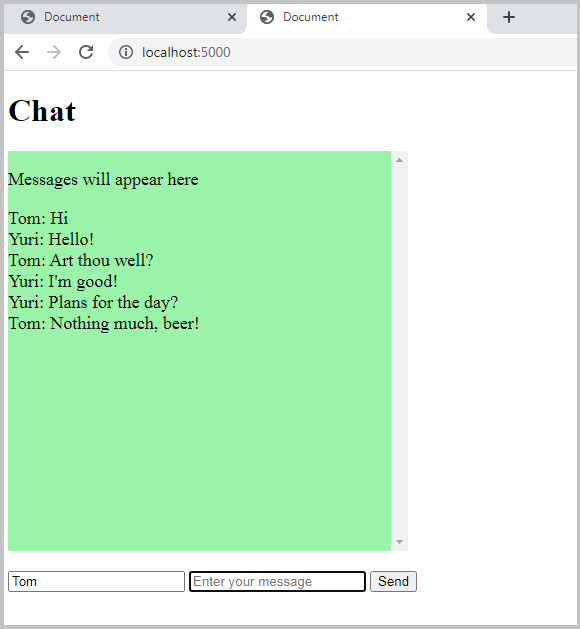
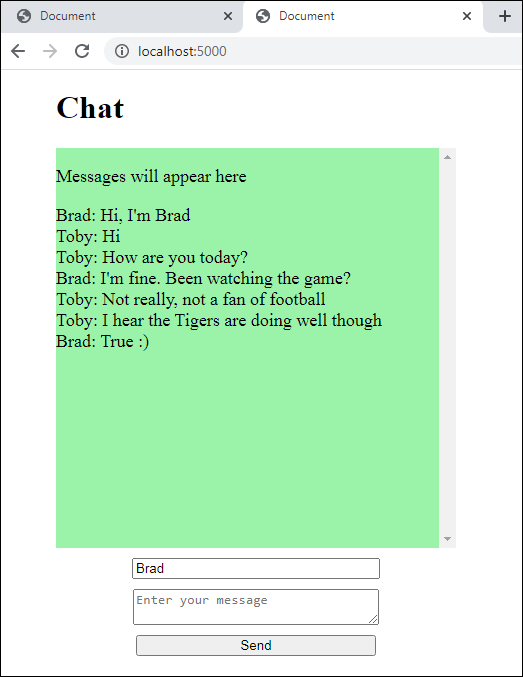
Update readme, improve UI layout

diff --git a/templates/index.html b/templates/index.html
@@ -19,18 +19,26 @@
 
     <h1>Chat</h1>
 
-    <div id="message_area"><p>Messages will appear here</p></div>
+    <div id="main_container">
 
-    <div id="form_area">
-        <form action="" method="post" id="form">
-            <input type="text" class="username" name="username" placeholder="Enter a username">
-            <input type="text" class="messageField" name="messageField" placeholder="Enter your message">
+        <div id="message_area">
+            <p>Messages will appear here</p>
+        </div>
+
+        <div>
+            <input type="text" id="username" name="username" placeholder="Enter a username">
+        </div>
+
+        <div>
+            <textarea type="text" id="messageField" name="messageField" placeholder="Enter your message"></textarea>
+        </div>
+
+        <div>
             <input type="submit" id="sendButton" value="Send">
-        </form>
+        </div>
+
+        <script type="text/javascript" src="{{url_for('static', filename='script.js')}}"></script>
     </div>
-
-    <script type="text/javascript" src="{{url_for('static', filename='script.js')}}"></script>
-
 </body>
 
 </html>

diff --git a/static/script.js b/static/script.js
@@ -1,20 +1,18 @@
-console.log("sanity check"); //make sure JS loaded
-
 //create a socket on the client
 let socket = io();
 
-let form = document.getElementById('form');
-let message = form.elements[1];
-let username = form.elements[0];
+let message = document.getElementById('messageField');
+let username = document.getElementById('username');
+let sendButton = document.getElementById('sendButton');
 
 let message_area = document.getElementById('message_area');
 
 //user clicks submit button, socket sends the message to the server
-form.addEventListener('submit', e => {
+sendButton.addEventListener('click', e => {
     e.preventDefault();
     console.log(message.value);
     socket.emit('message', username.value + ': ' + message.value);
-    // TODO need to reset message field and leave name field intact after submit
+    message.value = "";
 });
 
 socket.on('updateui', data => {

diff --git a/static/styles.css b/static/styles.css
@@ -1,11 +1,18 @@
+#main_container {
+    width: 400px;
+}
+
 #message_area {
     overflow-y: scroll;
     height: 400px;
-    width: 400px;;
     background-color: rgb(155, 243, 169);
     font-size: large;
 }
 
-#form_area {
-    margin-top: 20px;
+#username, #messageField, #sendButton {
+    display: block;
+    margin-left: auto;
+    margin-right: auto;
+    margin-top: 10px;
+    width: 60%;
 }

diff --git a/readme.md b/readme.md
@@ -4,12 +4,48 @@
 
 ![Screenshot of the app](static/images/screenshot.png)
 
+### Try it out
+
+[Click here to launch the deployed app](https://chattychatty123.herokuapp.com/)
+
+Open the app in two or more tabs or even different devices, enter an username and begin sending messages to all connected clients!
+
 #### Intro
 
-This is a very simple implementation of Flask-socketIO, based on their excellent [documentation](https://flask-socketio.readthedocs.io/en/latest/). To keep things simple, I have added almost no styling. The documentation also details how rooms might be added, I have left these out, again, to keep things simple.
+This is a very simple implementation of Flask-socketIO, based on their excellent [documentation](https://flask-socketio.readthedocs.io/en/latest/). To keep things simple, almost no styling has been added.
 
-#### How to use
+#### How it works
 
-Set up a simple Flask application, add Flask-socketIO to it then run your server. Open at least two tabs then start chatting!!
+### Overview
 
-#### How it was implemented
+## Tech used
+
+* Flask (for backend duties)
+* Flask-SocketIO & SocketIO (for establishing endpoints on clients and the server)
+* gunicorn (for running the Pyhon code on the server)
+* gevent
+* gevent-websocket
+* greenlet (, required by gevent)
+
+### Code explanation
+
+## Procfile
+
+## app.py
+
+## index.html
+
+## script.js
+
+#### Deployment (local)
+
+# NOTE. Python3 required
+
+First, clone the repo. You'll then have to install all the requirements with `pip install -r requirements.txt`. Run the application with `python app.py`. This will spin up a server on your machine with a default port of 5000. Open at least two browser tabs and navigate them to `localhost:5000`. Now enter a username and start sending messages.
+
+#### Deployment (web)
+
+The information here relates to the Heroku hosting service.
+
+need to set secret key
+
